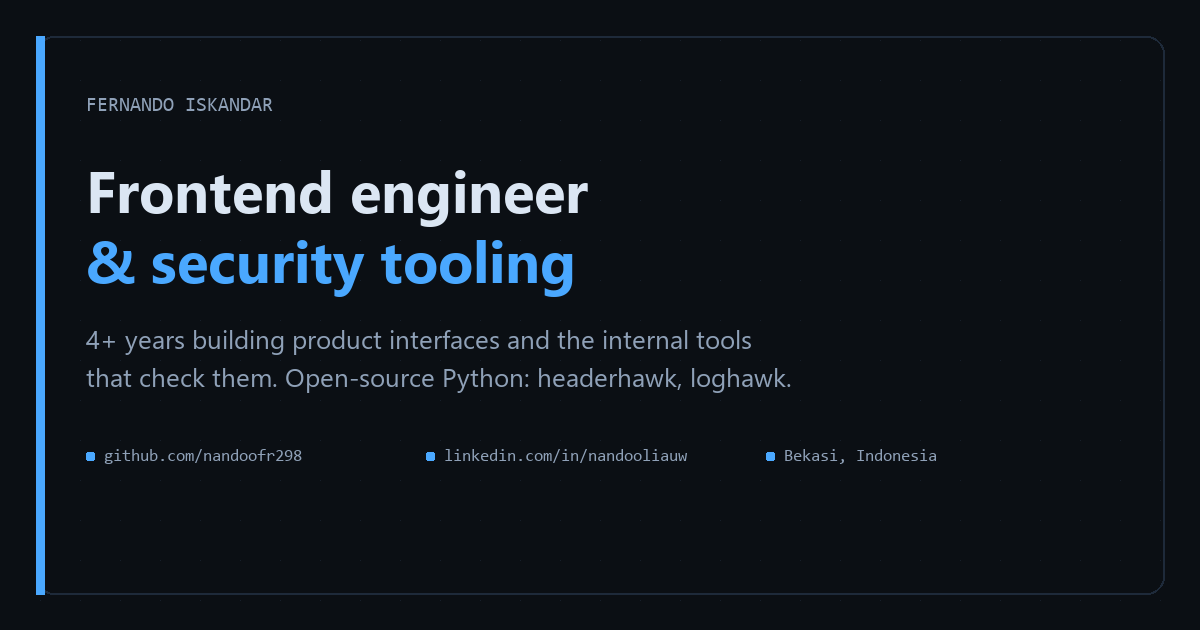
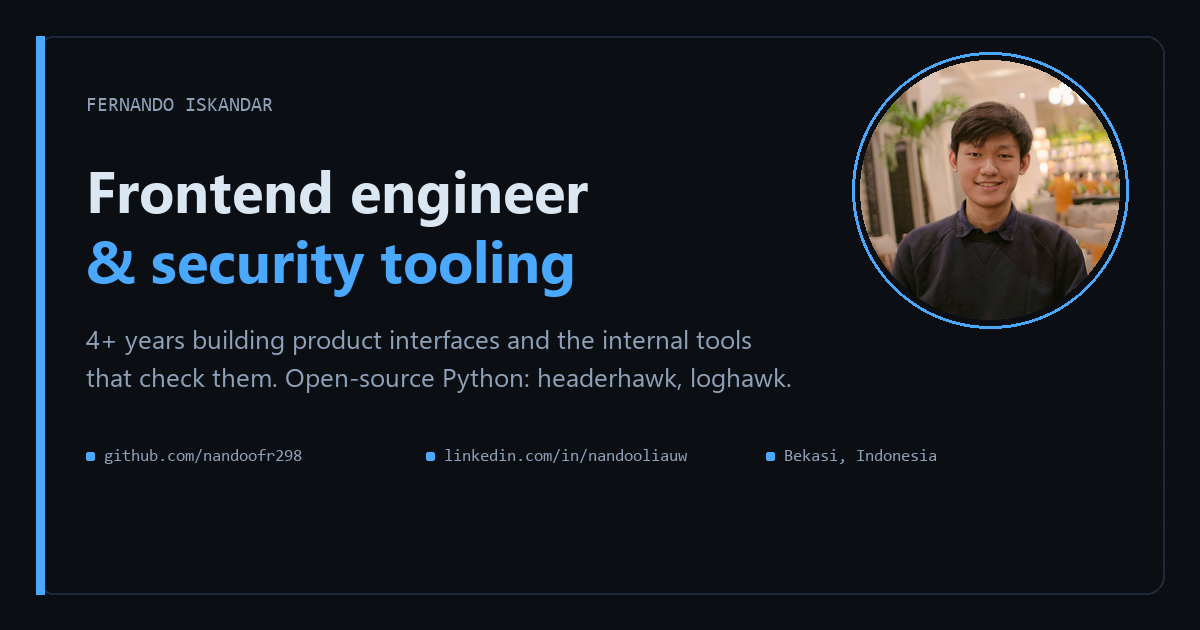
portfolio: pull portrait, app screenshot and og portrait from the 2023 assets
- hero portrait: square crop of profile.jpg, 720px, 56KB
- third project card: Indonesia Biru Foundation Android app, real screen
  capture with emulator title bar and Android nav bar cropped out
- og.png now carries the portrait inside the brand ring
- verified: no missing assets or alt text, all paths 200, images re-inspected
  after processing

Changed region(s): [[0.7092, 0.0603, 0.9558, 0.5127], [0.8017, 0.5127, 0.8633, 0.5429]]

diff --git a/index.html b/index.html
@@ -40,7 +40,11 @@
 
   <!-- HERO -->
   <section class="hero wrap">
-    <p class="eyebrow"><span class="dot" aria-hidden="true"></span> Bekasi / Jakarta · open to freelance</p>
+    <div class="hero-top">
+      <img class="avatar" src="assets/profile.jpg" width="96" height="96"
+           alt="Portrait of Fernando Iskandar">
+      <p class="eyebrow"><span class="dot" aria-hidden="true"></span> Bekasi / Jakarta · open to freelance</p>
+    </div>
     <h1>I build web interfaces<br>and the tools that check them.</h1>
     <p class="lede">
       Frontend engineer with 4+ years shipping product interfaces — currently at
@@ -64,7 +68,7 @@
   <section class="wrap" id="work">
     <div class="section-head">
       <h2>Selected work</h2>
-      <p class="section-note">Two open-source tools, built end to end: design, implementation, tests, documentation.</p>
+      <p class="section-note">Two open-source Python tools and one Android app — built end to end: implementation, tests, documentation.</p>
     </div>
 
     <article class="project">
@@ -113,6 +117,25 @@
           <a href="https://github.com/nandoofr298/loghawk" rel="noopener">Repository ↗</a>
           <a href="https://raw.githubusercontent.com/nandoofr298/loghawk/main/examples/report-example.md" rel="noopener">Sample report ↗</a>
         </p>
+      </div>
+    </article>
+
+    <article class="project">
+      <div class="project-media phone">
+        <img src="assets/app-indonesia-biru.jpg" alt="Android app screen listing dive sites as photo cards: Pantai Kuta in Bali and Shark Point" loading="lazy">
+      </div>
+      <div class="project-body">
+        <p class="tag">Android · 2021</p>
+        <h3>Indonesia Biru Foundation app</h3>
+        <p>
+          Android application for a marine-conservation non-profit in Lombok.
+          Dive-site catalogue with photo-first cards, a map entry point and the
+          organisation's own content — built for field use, not for a demo day.
+        </p>
+        <ul class="facts">
+          <li>Three-month engagement as the project's Android developer (Jul–Oct 2021)</li>
+          <li>Card-based list, map and about screens; photo-led layout that survives slow connections</li>
+        </ul>
       </div>
     </article>
 

diff --git a/assets/style.css b/assets/style.css
@@ -143,6 +143,28 @@ code {
 
 .hero { padding: 76px 22px 20px; }
 
+.hero-top {
+  display: flex;
+  align-items: center;
+  gap: 16px;
+  margin-bottom: 22px;
+}
+
+.avatar {
+  width: 96px;
+  height: 96px;
+  border-radius: 50%;
+  object-fit: cover;
+  border: 1px solid var(--line);
+  box-shadow: 0 0 0 4px var(--accent-soft);
+  flex: none;
+}
+
+@media (max-width: 520px) {
+  .avatar { width: 72px; height: 72px; }
+  .hero-top { gap: 12px; }
+}
+
 .eyebrow {
   display: inline-flex;
   align-items: center;
@@ -272,6 +294,14 @@ h2 {
 .project-media img {
   border-radius: 10px;
   border: 1px solid var(--line);
+}
+
+.project-media.phone { text-align: center; }
+.project-media.phone img {
+  width: auto;
+  max-width: 100%;
+  max-height: 430px;
+  margin: 0 auto;
 }
 
 .project-body h3 {

diff --git a/tools/make_og.py b/tools/make_og.py
@@ -45,6 +45,21 @@ def main() -> int:
     draw.rounded_rectangle([(36, 36), (W - 36, H - 36)], radius=18, outline=LINE, width=2)
     draw.rectangle([(36, 36), (44, H - 36)], fill=ACCENT)
 
+    # portrait on the right, circular, with the same ring as the site avatar
+    photo_path = "assets/profile.jpg"
+    if os.path.isfile(photo_path):
+        size = 260
+        cx, cy = W - 210, 190
+        photo = Image.open(photo_path).convert("RGB").resize((size, size), Image.LANCZOS)
+        mask = Image.new("L", (size, size), 0)
+        ImageDraw.Draw(mask).ellipse((0, 0, size - 1, size - 1), fill=255)
+        image.paste(photo, (cx - size // 2, cy - size // 2), mask)
+        draw.ellipse(
+            [(cx - size // 2 - 8, cy - size // 2 - 8), (cx + size // 2 + 8, cy + size // 2 + 8)],
+            outline=ACCENT,
+            width=3,
+        )
+
     draw.text((86, 96), "FERNANDO ISKANDAR", font=font(MONO, 20), fill=DIM)
     draw.text((86, 150), "Frontend engineer", font=font(SANS, 58), fill=TEXT)
     draw.text((86, 220), "& security tooling", font=font(SANS, 58), fill=ACCENT)

diff --git a/README.md b/README.md
@@ -8,7 +8,11 @@ step, no trackers, no external requests.
 index.html          the page
 assets/style.css    all styling, dark by default
 assets/app.js       current year + nav highlight; the page works without it
-assets/*.png        project screenshots (taken from the real repos) + og card
+assets/profile.jpg  hero portrait (square, 720px, cropped from the 2023 original)
+assets/headerhawk.png, assets/loghawk.png   report cards from the real tools
+assets/app-indonesia-biru.jpg               Android app screen, emulator chrome cropped
+assets/cert-*.jpg   certificate scans, re-exported for web
+assets/og.png       social preview card, includes the portrait
 assets/favicon.svg  monogram
 tools/make_og.py    regenerates assets/og.png
 ```
@@ -44,7 +48,10 @@ comment and edit inside it. There is no templating layer to learn.
 Content sources used for this first version:
 
 - **Experience** — the public LinkedIn profile (`linkedin.com/in/nandooliauw`)
-- **Work** — the two public repositories, `headerhawk` and `loghawk`
+- **Work** — the two public repositories, `headerhawk` and `loghawk`, plus the
+  2021 Indonesia Biru Foundation Android app (screen captured from the emulator,
+  status/navigation bars cropped out)
+- **Portrait** — cropped to a square from `macbook/Web Portofolio/profile.jpg`
 - **Certifications** — read from the original certificate images in
   `macbook/Web Portofolio/` (Google Data Analytics, MikroTik MTCNA), then
   re-exported to `assets/cert-*.jpg` at web size
@@ -56,9 +63,14 @@ is 31 (headerhawk) + 23 (loghawk), `2` public tools.
 ## What was verified
 
 - HTML parsed: no missing `alt`, no broken in-page anchors, no missing local
-  assets, exactly one `<h1>`, all six sections present
-- Served locally and fetched over HTTP: page, CSS, JS, both project images, og
-  card, favicon and `robots.txt` all return `200`
+  assets, exactly one `<h1>`, all seven sections present
+- Served locally and fetched over HTTP: page, CSS, JS, portrait, both project
+  images, app screenshot, both certificate scans, og card and `robots.txt` all
+  return `200`
+- Every image inspected visually after processing: portrait still sharp at 720px,
+  emulator title bar and Android navigation bar fully cropped out of the app
+  screenshot, certificate text (name, number, date) still legible after JPEG
+  compression, og card free of overlap
 - Contrast ratios computed against WCAG AA: body text 15.2:1, secondary text
   7.3:1, accent 7.6:1 on the dark palette; all pass
 - One real render captured (`docs/preview-light.png`, light palette)
@@ -66,10 +78,12 @@ is 31 (headerhawk) + 23 (loghawk), `2` public tools.
 ## Known gaps
 
 - No mobile screenshot was captured — headless Chrome/Edge on this machine
-  stopped launching after the first capture. Layout uses a single breakpoint at
-  820px and a 2-column stat grid at 620px, but it is unverified visually.
+  stopped launching after the first capture. Layout uses breakpoints at 820px,
+  620px and 520px, but mobile is unverified visually.
+- `docs/preview-light.png` predates the certifications section, the portrait and
+  the Android project card.
 - Dark palette is the default; the light palette exists behind
-  `<html data-theme="light">` and is what `docs/preview-light.png` shows.
+  `<html data-theme="light">`.
 - No analytics, deliberately. If you want visit counts later, prefer a
   self-hosted counter over a third-party script.
 
